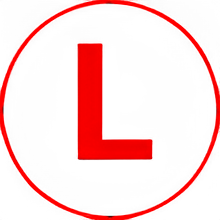
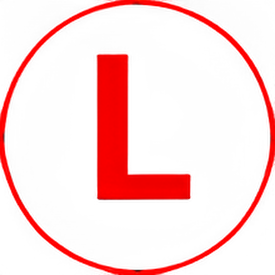
feat(draw_mode): integration of new draw_modes

diff --git a/src/utils/mapUtils.js b/src/utils/mapUtils.js
@@ -98,6 +98,7 @@ export function initDrawControl(map) {
  * @param {string} type - feature type, e.g. 'draw_point' or 'low_pressure'
  * @returns {function} - function accepting the title string
  */
+
 export const typhoonMarker = (selectedPoint, mapRef, setShowTitleModal, type) => (title) => {
   if (!selectedPoint) {
     console.warn('⚠ No selected point provided.');
@@ -107,8 +108,9 @@ export const typhoonMarker = (selectedPoint, mapRef, setShowTitleModal, type) =>
   const { lng, lat } = selectedPoint;
 
   const iconMap = {
-    typhoon: 'typhoon',
-    low_pressure: 'low_pressure',
+    typhoon: 'typhoon',           // Icon for Typhoon
+    low_pressure: 'low_pressure', // Icon for Low Pressure Area (LPA)
+    high_pressure: 'high_pressure'
   };
 
   const defaultTitles = {
@@ -117,10 +119,9 @@ export const typhoonMarker = (selectedPoint, mapRef, setShowTitleModal, type) =>
   };
 
   const markerType = type || 'typhoon';
-  const iconName = iconMap[markerType] || 'typhoon';
-  // console.log(title)
-  // const featureId = title; // Unique ID per marker
-
+  console.log('Marker Type: ', markerType)
+  const iconName = iconMap[markerType] || 'typhoon';  // Default to typhoon if not specified
+  console.log('ICON NAME : ', iconName)
   const feature = {
     type: 'Feature',
     geometry: {
@@ -128,9 +129,9 @@ export const typhoonMarker = (selectedPoint, mapRef, setShowTitleModal, type) =>
       coordinates: [lng, lat],
     },
     properties: {
-      title: title || defaultTitles[markerType],
+      title: title || defaultTitles[markerType],  // Use LPA title if no title provided
       markerType,
-      icon: iconName,
+      icon: iconName, // Ensure the correct icon is associated with the marker
     },
   };
 
@@ -143,43 +144,56 @@ export const typhoonMarker = (selectedPoint, mapRef, setShowTitleModal, type) =>
   const sourceId = `${title}`;
   const layerId = `${title}`;
 
-  if (!map.getSource(sourceId)) {
-    map.addSource(sourceId, {
-      type: 'geojson',
-      data: feature,
-    });
+  // Remove the old source and layer if they exist, to avoid overlapping markers
+  if (map.getSource(sourceId)) {
+    map.removeSource(sourceId);
+  }
+  if (map.getLayer(layerId)) {
+    map.removeLayer(layerId);
   }
 
-  if (!map.getLayer(layerId)) {
-    map.addLayer({
-      id: layerId,
-      type: 'symbol',
-      source: sourceId,
-      layout: {
-        'icon-image': ['get', 'icon'],
-        'icon-size': [
-          'case',
-          ['==', ['get', 'markerType'], 'low_pressure'],
-          0.2,
-          0.09,
-        ],
-        'text-field': ['get', 'title'],
-        'text-font': ['Open Sans Semibold', 'Arial Unicode MS Bold'],
-        'text-offset': [
-          'case',
-          ['==', ['get', 'markerType'], 'low_pressure'],
-          [0, 2.0],
-          [0, 1.25],
-        ],
-        'text-anchor': 'top',
-        'icon-allow-overlap': true,
-        'text-allow-overlap': true,
-      },
-      paint: {
-        'text-color': 'red',
-      },
-    });
-  }
+  // Add source and layer for the marker
+  map.addSource(sourceId, {
+    type: 'geojson',
+    data: feature,
+  });
+
+  map.addLayer({
+    id: layerId,
+    type: 'symbol',
+    source: sourceId,
+    slot: 'top',
+    layout: {
+      'icon-image': ['get', 'icon'], // Get the icon dynamically
+      'icon-size': [
+        'case',
+        ['==', ['get', 'markerType'], 'low_pressure'],
+        0.1, // Smaller icon size for LPA
+        0.07, // Default icon size for Typhoon
+      ],
+      'text-field': ['get', 'title'], // Title label
+      'text-font': ['Open Sans Semibold', 'Arial Unicode MS Bold'],
+      'text-offset': [
+        'case',
+        ['==', ['get', 'markerType'], 'low_pressure'],
+        [0, 1.0], // Adjust text offset for LPA
+        [0, 1.25], // Adjust text offset for Typhoon
+      ],
+      'text-anchor': 'top',
+      'icon-allow-overlap': true,
+      'text-allow-overlap': true,
+    },
+    paint: {
+      'text-color': [
+        'case',
+        ['==', ['get', 'markerType'], 'low_pressure'],
+        'red',
+        ['==', ['get', 'markerType'], 'high_pressure'],
+        'blue',
+        'purple' // default text color for other types
+      ],
+    },
+  });
 
   setShowTitleModal(false);
 };

diff --git a/src/components/Edit/Toolbar.jsx b/src/components/Edit/Toolbar.jsx
@@ -2,6 +2,8 @@ import React, { useEffect, useState, useCallback, useMemo, useRef } from 'react'
 import { TbTools } from 'react-icons/tb';
 import storm from "../../assets/draw_icons/hurricane.png";
 import lpa from "../../assets/draw_icons/LPA.png";
+import hpa from "../../assets/draw_icons/HPA.png";
+import l1 from "../../assets/draw_icons/L1.png";
 import PointInputChoiceModal from '../modals/MarkerChoice';
 import ManualInputModal from '../modals/ManualInputModal';
 import FeatureNotAvailableModal from '../modals/FeatureNotAvailable';
@@ -34,10 +36,24 @@ const DrawToolbar = ({ draw, mapRef, onToggleCanvas, onToggleFlagCanvas, isCanva
 
   const tools = useMemo(() => [
     {
+      id: 'less_1',
+      icon: <img src={l1} alt="Less than 1 Meter" style={{ width: 20, height: 20 }} />,
+      label: 'Less than 1 Meter (1)',
+      hotkey: '1',
+      modal: 'pointInputChoice',
+    },
+    {
       id: 'low_pressure',
       icon: <img src={lpa} alt="Low Pressure Area" style={{ width: 20, height: 20 }} />,
       label: 'Low Pressure Area (A)',
       hotkey: 'a',
+      modal: 'pointInputChoice',
+    },
+    {
+      id: 'high_pressure',
+      icon: <img src={hpa} alt="High Pressure Area" style={{ width: 20, height: 20 }} />,
+      label: 'High Pressure Area (H)',
+      hotkey: 'h',
       modal: 'pointInputChoice',
     },
     {
@@ -78,7 +94,7 @@ const DrawToolbar = ({ draw, mapRef, onToggleCanvas, onToggleFlagCanvas, isCanva
     if (method === 'manual') {
       toggleModal('manualInput', true);
     } else if (method === 'map') {
-      // console.log(`Map input selected for ${selectedType}`);
+      console.log(`Map input selected for ${selectedType}`);
       if (selectedType === 'typhoon') {
         handleDrawModeChange('draw_point', draw, setLayersRef);
       } else if (selectedType === 'low_pressure') {
@@ -91,6 +107,7 @@ const DrawToolbar = ({ draw, mapRef, onToggleCanvas, onToggleFlagCanvas, isCanva
     const selectedType = selectedToolRef.current || 'typhoon';
 
     if (setType) setType(selectedType);
+    console.log('SELECTED: ', selectedType)
 
     const coords = [parseFloat(data.lng), parseFloat(data.lat)];
     const title = data.title;
@@ -139,6 +156,8 @@ const DrawToolbar = ({ draw, mapRef, onToggleCanvas, onToggleFlagCanvas, isCanva
               isFront: false,
               owner: owner?.id,
               project: projectId,
+              title: title,
+              type: selectedType,
             },
             name: uniqueName,
             sourceId: sourceId,

diff --git a/src/utils/mapSetup.js b/src/utils/mapSetup.js
@@ -16,6 +16,7 @@ export function setupMap({ map, mapRef, setDrawInstance, setMapLoaded, setSelect
 
   loadImage(map, 'typhoon', '/hurricane.png');
   loadImage(map, 'low_pressure', '/LPA.png');
+  loadImage(map, 'high_pressure', '/HPA.png');
 
   map.on('load', () => {
     initTyphoonLayer(map);
@@ -77,10 +78,9 @@ export function setupMap({ map, mapRef, setDrawInstance, setMapLoaded, setSelect
       const [coordinates, s] = points;
       const [lng, lat] = coordinates;
       const title = point.name || '';
+      console.log(point.sourceId)
       const sourceId = point.sourceId || 'typhoon';
-      const markerType = sourceId.includes('_')
-        ? sourceId.substring(0, sourceId.lastIndexOf('_'))
-        : sourceId;
+      const markerType = point.properties.type
 
       if (lng !== undefined && lat !== undefined) {
         saveMarkerFn({ lat, lng }, mapRef, () => { }, markerType)(title);
@@ -106,6 +106,9 @@ export function setupMap({ map, mapRef, setDrawInstance, setMapLoaded, setSelect
         data: geojsonFeature,
       });
 
+      // Determine if the line should be dashed
+      const isDashed = feature.properties?.closedMode === false;
+
       map.addLayer({
         id: name,
         type: 'line',
@@ -114,6 +117,7 @@ export function setupMap({ map, mapRef, setDrawInstance, setMapLoaded, setSelect
           'line-color': '#0080ff',
           'line-opacity': 0.5,
           'line-width': 2,
+          'line-dasharray': isDashed ? [2, 2] : [], // Dashed line if not closedMode
         },
         filter: ['==', '$type', 'LineString'],
       });

diff --git a/src/components/Edit/utils/layerUtils.js b/src/components/Edit/utils/layerUtils.js
@@ -14,17 +14,18 @@ export function addWindLayer(map) {
         type: 'raster-particle',
         source: 'wind_data_source',
         'source-layer': '10m_wind',
+        slot: 'bottom',
         paint: {
             'raster-particle-speed-factor': 0.4,
             'raster-particle-fade-opacity-factor': 0.9,
             'raster-particle-reset-rate-factor': 0.4,
-            'raster-particle-count': 4000,
+            'raster-particle-count': 30000,
             'raster-particle-max-speed': 40,
             'raster-particle-color': [
                 'interpolate',
                 ['linear'],
                 ['raster-particle-speed'],
-                1.5,
+                .8,
                 'rgba(134,163,171,256)',
                 2.5,
                 'rgba(126,152,188,256)',
@@ -85,6 +86,7 @@ export function addWindLayer(map) {
             ]
         }
     });
+
 }
 
 export function addGeoJsonLayer(map, file, layers, setLayers) {

diff --git a/src/components/Edit/MapComponent.jsx b/src/components/Edit/MapComponent.jsx
@@ -29,7 +29,7 @@ const MapComponent = ({ onMapLoad, isDarkMode }) => {
         container: mapContainerRef.current,
         projection: 'mercator',
         style: isDarkMode
-          ? 'mapbox://styles/karlbernaldizzy/cmbqaaqhr005501rlcohv8iov'
+          ? 'mapbox://styles/karlbernaldizzy/cmca3bgd401i801r72mjd0yk7' //--Dark
           : 'mapbox://styles/karlbernaldizzy/cmbqag5o7008p01sp609t4vwv',
         center: [120.0, 15.5],
         minZoom: 3.5,
@@ -72,7 +72,7 @@ const MapComponent = ({ onMapLoad, isDarkMode }) => {
     if (mapRef.current) {
       mapRef.current.setStyle(
         isDarkMode
-          ? 'mapbox://styles/karlbernaldizzy/cmbqaaqhr005501rlcohv8iov'
+          ? 'mapbox://styles/karlbernaldizzy/cmca3bgd401i801r72mjd0yk7'
           : 'mapbox://styles/karlbernaldizzy/cmbqag5o7008p01sp609t4vwv'
       );
     }

diff --git a/src/components/Edit/draw/canvasUtils.jsx b/src/components/Edit/draw/canvasUtils.jsx
@@ -108,6 +108,9 @@ export const handlePointerUp = async (
   if (map.getSource(sourceId)) map.removeSource(sourceId);
   if (map.getLayer(layerId)) map.removeLayer(layerId);
 
+  // Determine if the line should be dashed
+  const isDashed = !closedMode; // Dash if not closedMode
+
   map.addSource(sourceId, {
     type: 'geojson',
     data: geojson,
@@ -123,6 +126,7 @@ export const handlePointerUp = async (
         'line-color': '#0080ff',
         'line-opacity': 0.5,
         'line-width': 2,
+        'line-dasharray': isDashed ? [2, 2] : [], // Dashed if not closedMode
       },
     },
     beforeLayer
@@ -273,3 +277,4 @@ export const handlePointerUp = async (
 
   setLines([]);
 };
+

diff --git a/src/components/modals/MarkerChoice.jsx b/src/components/modals/MarkerChoice.jsx
@@ -95,9 +95,9 @@ const PointInputChoiceModal = ({ isOpen, onClose, onSelect }) => {
             <ActionButton onClick={() => onSelect('manual')}>
               Enter Latitude & Longitude
             </ActionButton>
-            {/* <ActionButton onClick={() => onSelect('map')}>
+            <ActionButton onClick={() => onSelect('map')}>
               Click on the Map
-            </ActionButton> */}
+            </ActionButton>
             <ActionButton onClick={onClose}>
               Cancel
             </ActionButton>

diff --git a/src/components/Edit/ProjectMenu.jsx b/src/components/Edit/ProjectMenu.jsx
@@ -184,8 +184,11 @@ const ProjectMenu = ({ onNew, onSave, onView, onExport, mapRef, features }) => {
     }
 
     const bounds = [
-      [110, 0],
-      [141, 27],
+      [ 122.35415305948624, 21.485977507010958],
+      [ 122.35415305948624, 5.068614222358221],
+      [ 142.99892460585733, 5.068614222358221],
+      [ 142.99892460585733, 21.485977507010958],
+      [ 122.35415305948624, 21.485977507010958]
     ];
 
     setIsExporting(true); // Show loading modal

diff --git a/src/components/Edit/LayerPanel.jsx b/src/components/Edit/LayerPanel.jsx
@@ -40,6 +40,7 @@ const LayerPanel = ({ mapRef, isDarkMode, layers, setLayers, draw }) => {
 
   const setActiveLayer = (id) => {
     const layer = layers.find((layer) => layer.id === id);
+    console.log(layer)
     const addedLayers = mapRef.current.getStyle().layers;
     if (!layer) {
       console.warn(`Layer with ID ${id} not found.`);
